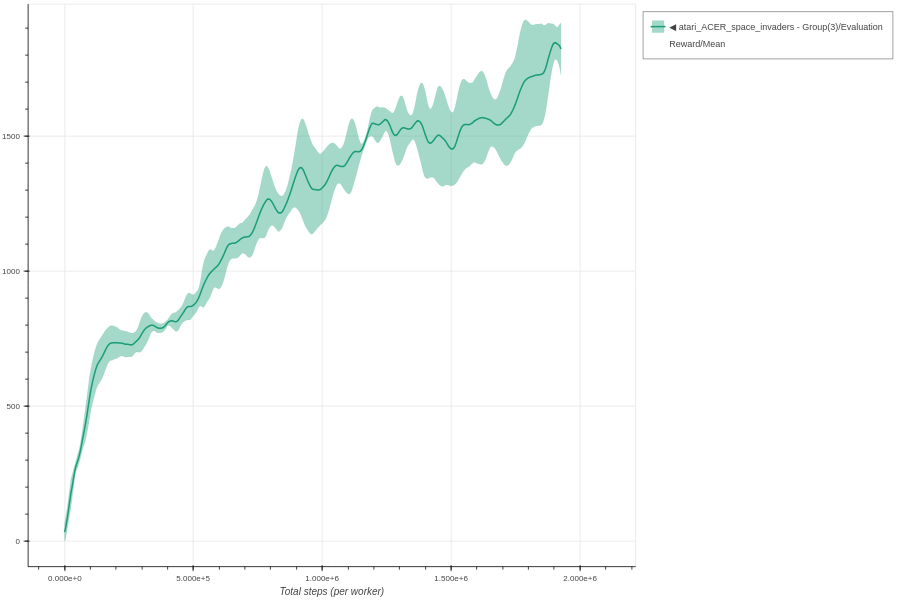
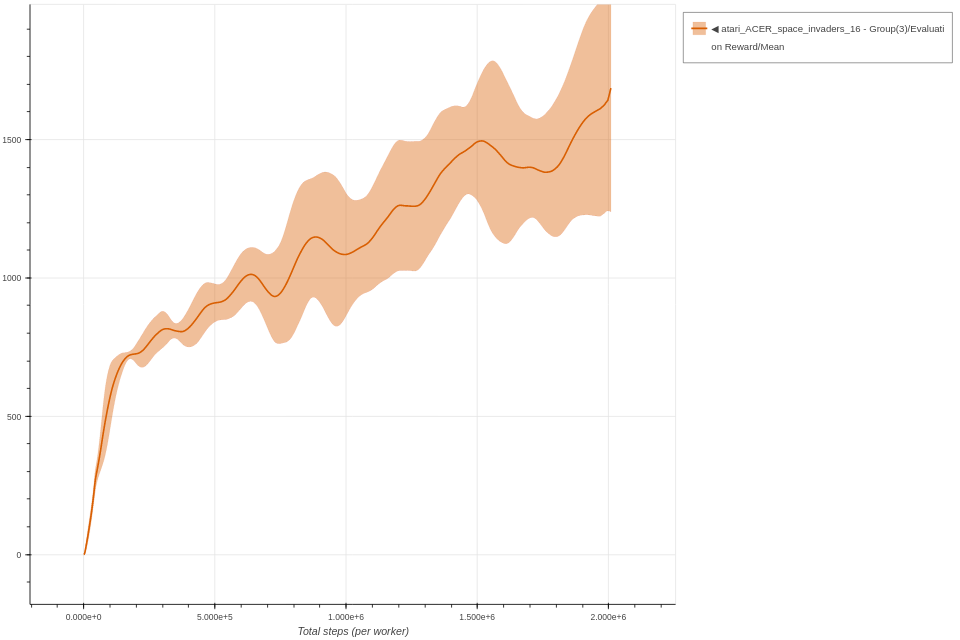
benchmark update

diff --git a/rl_coach/agents/acer_agent.py b/rl_coach/agents/acer_agent.py
@@ -68,7 +68,7 @@ class ACERAlgorithmParameters(AlgorithmParameters):
         self.num_steps_between_gradient_updates = 5000
         self.ratio_of_replay = 4
         self.num_transitions_to_start_replay = 10000
-        self.rate_for_copying_weights_to_target = 0.99
+        self.rate_for_copying_weights_to_target = 0.01
         self.importance_weight_truncation = 10.0
         self.use_trust_region_optimization = True
         self.max_KL_divergence = 1.0

diff --git a/rl_coach/presets/Atari_ACER.py b/rl_coach/presets/Atari_ACER.py
@@ -11,7 +11,7 @@ from rl_coach.memories.memory import MemoryGranularity
 # Graph Scheduling #
 ####################
 schedule_params = ScheduleParameters()
-schedule_params.improve_steps = TrainingSteps(10000000000)
+schedule_params.improve_steps = TrainingSteps(10000000)
 schedule_params.steps_between_evaluation_periods = EnvironmentEpisodes(100)
 schedule_params.evaluation_steps = EnvironmentEpisodes(3)
 schedule_params.heatup_steps = EnvironmentSteps(0)
